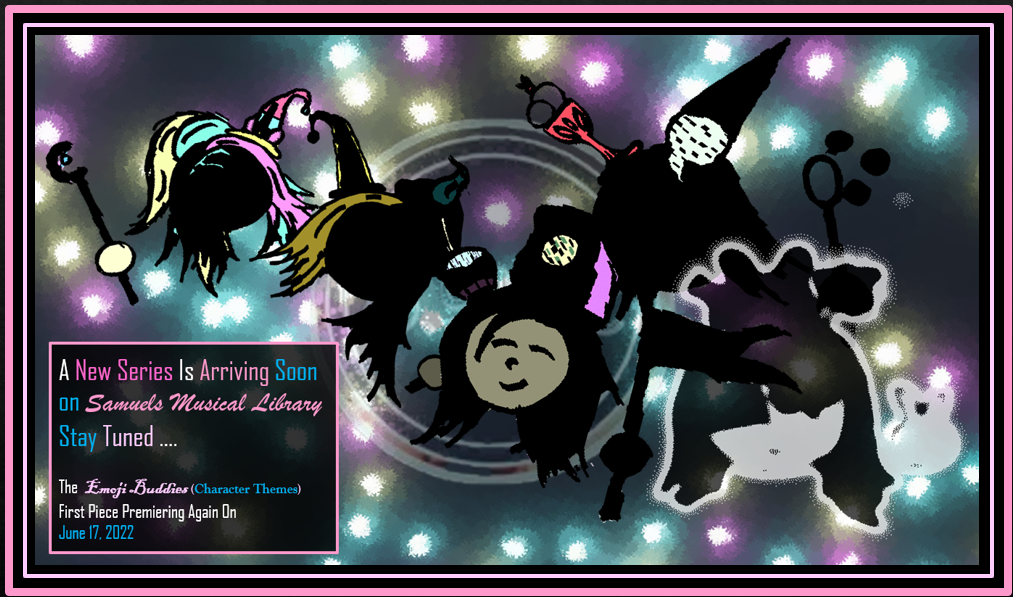
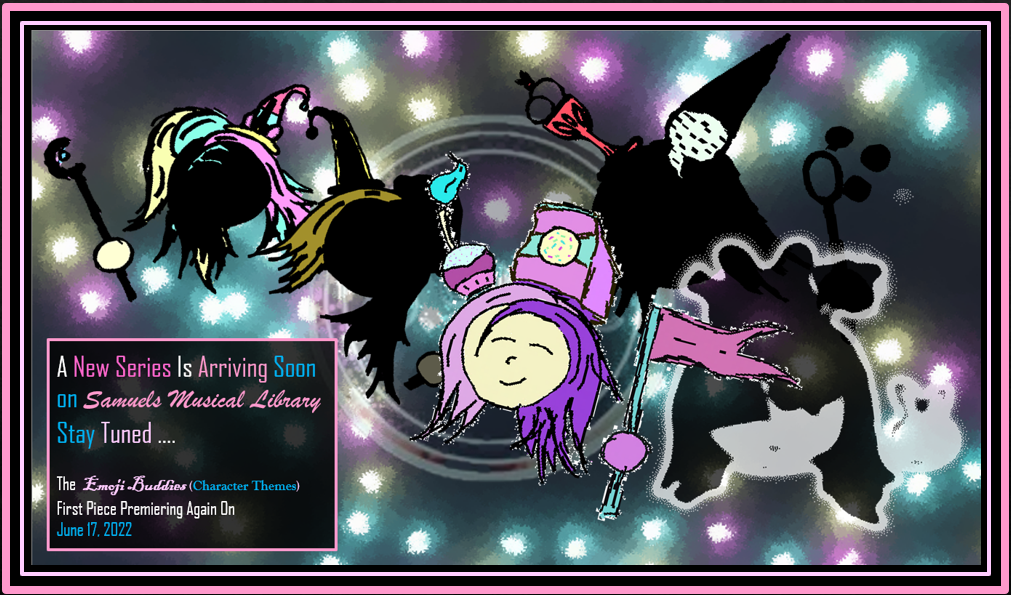
6/17/2022

Changed region(s): [[0.0, 0.0, 1.0, 0.9983], [0.8892, 0.3025, 0.9199, 0.3328]]

diff --git a/myportfolio.html b/myportfolio.html
@@ -29,12 +29,13 @@
 <a href="index.html">Home</a>
 <!--    
 <a href="aboutme.html">About Me</a>
--->
+
 <a href="songstatus.html">Music Status Checker</a>    
-<!--
+
 <a href="blog.html">Blog</a>
+
+<a href="gallery.html">Gallery</a>
 -->    
-<a href="gallery.html">Gallery</a>      
 <a href="contact.html">Contact</a>
 </div>
     
@@ -48,13 +49,13 @@
 <h1> Recently Posted </h1>
 
 <br>
-
+<td><iframe width="560" height="315" src="https://www.youtube.com/embed/Y8dr-vbFFhA" title="YouTube video player" frameborder="0" allow="accelerometer; autoplay; clipboard-write; encrypted-media; gyroscope; picture-in-picture" allowfullscreen></iframe></td>
+    
 <td><iframe width="560" height="315" src="https://www.youtube.com/embed/Oas1QBpsra8" title="YouTube video player" frameborder="0" allow="accelerometer; autoplay; clipboard-write; encrypted-media; gyroscope; picture-in-picture" allowfullscreen></iframe></td>
     
 <td><iframe width="560" height="315" src="https://www.youtube.com/embed/uYHl07tpf7c" title="YouTube video player" frameborder="0" allow="accelerometer; autoplay; clipboard-write; encrypted-media; gyroscope; picture-in-picture" allowfullscreen></iframe></td>
     
-<td><iframe width="560" height="315" src="https://www.youtube.com/embed/Y8dr-vbFFhA" title="YouTube video player" frameborder="0" allow="accelerometer; autoplay; clipboard-write; encrypted-media; gyroscope; picture-in-picture" allowfullscreen></iframe></td>
-    
+
 <td><iframe width="560" height="315" src="https://www.youtube.com/embed/FzN_bkL2irk" title="YouTube video player" frameborder="0" allow="accelerometer; autoplay; clipboard-write; encrypted-media; gyroscope; picture-in-picture" allowfullscreen></iframe> </td>
 
 
@@ -68,13 +69,12 @@
 <br>
     
 <h1> Out Of The Box Compositions </h1>
- 
+    
+<td><iframe width="560" height="315" src="https://www.youtube.com/embed/3qgNWOm7UNc" title="YouTube video player" frameborder="0" allow="accelerometer; autoplay; clipboard-write; encrypted-media; gyroscope; picture-in-picture" allowfullscreen></iframe> </td>    
     
 <td><iframe width="560" height="315" src="https://www.youtube.com/embed/q6mWY_TamQ4" title="YouTube video player" frameborder="0" allow="accelerometer; autoplay; clipboard-write; encrypted-media; gyroscope; picture-in-picture" allowfullscreen></iframe></td>
     
-<td><iframe width="560" height="315" src="https://www.youtube.com/embed/GRVQiNR0Y9c" title="YouTube video player" frameborder="0" allow="accelerometer; autoplay; clipboard-write; encrypted-media; gyroscope; picture-in-picture" allowfullscreen></iframe> </td>    
-
-<td><iframe width="560" height="315" src="https://www.youtube.com/embed/3qgNWOm7UNc" title="YouTube video player" frameborder="0" allow="accelerometer; autoplay; clipboard-write; encrypted-media; gyroscope; picture-in-picture" allowfullscreen></iframe> </td>    
+<td><iframe width="560" height="315" src="https://www.youtube.com/embed/GRVQiNR0Y9c" title="YouTube video player" frameborder="0" allow="accelerometer; autoplay; clipboard-write; encrypted-media; gyroscope; picture-in-picture" allowfullscreen></iframe> </td>     
 
 <td><iframe width="560" height="315" src="https://www.youtube.com/embed/glJ5Iyeob0M" title="YouTube video player" frameborder="0" allow="accelerometer; autoplay; clipboard-write; encrypted-media; gyroscope; picture-in-picture" allowfullscreen></iframe> </td>
     

diff --git a/contact.html b/contact.html
@@ -48,19 +48,22 @@
 <a href="aboutme.html">About Me</a>
 -->
 <a href="myportfolio.html">Piano Covers/Compositions</a>
-<a href="songstatus.html">Music Status Checker</a>      
+
 <!--
+<a href="songstatus.html">Music Status Checker</a>      
+
 <a href="blog.html">Blog</a>    
--->
+
     
-<a href="gallery.html">Gallery</a>      
+<a href="gallery.html">Gallery</a> 
+-->
 
 
 </div>
 <br>
 <br>    
     
-<img src="contacts.png" alt="Contact image" class="contactcenter"> 
+<img src="c.png" alt="Contact image" class="contactcenter"> 
 
     
 

diff --git a/index.html b/index.html
@@ -24,11 +24,14 @@
 <a href="aboutme.html">About Me</a>
 -->
 <a href="myportfolio.html">Piano Covers/Compositions</a>
+    
+<!--=
 <a href="songstatus.html">Music Status Checker</a>      
-<!--
+
 <a href="blog.html">Blog</a>
+
+<a href="gallery.html">Gallery</a> 
 -->
-<a href="gallery.html">Gallery</a>      
 
 <a href="contact.html">Contact</a>
 </div>

diff --git a/style.css b/style.css
@@ -42,7 +42,7 @@ body.contact-color{background-color:black;}
   display: block;
   margin-left: auto;
   margin-right: auto;
-  width: 30%;
+  width: 50%;
 }
 
 

diff --git a/README.md b/README.md
@@ -15,15 +15,15 @@ Current Available Pages:
 ------------------------------------------------------------------------------------------------------------------------------------------------------------------------------
 Index Page/ Home: (https://scmcoding.github.io/S.M.L-Official-Website/)
 
-About Me/ Bio: (https://scmcoding.github.io/S.M.L-Official-Website/aboutme.html) ( Taking Off site for editing purposes )
+About Me/ Bio: (https://scmcoding.github.io/S.M.L-Official-Website/aboutme.html) ( Taking Off site for editing purposes/ Disabled )
 
-My Portfolio/ Musical pieces and composition: (https://scmcoding.github.io/S.M.L-Official-Website/myportfolio.html)
+My Portfolio/ Musical pieces and composition: (https://scmcoding.github.io/S.M.L-Official-Website/myportfolio.html) 
 
 Blog Page: https://scmcoding.github.io/S.M.L-Official-Website/blog.html (No Longer In Use)
 
-Gallery Page: https://scmcoding.github.io/S.M.L-Official-Website/gallery.html
+Gallery Page: https://scmcoding.github.io/S.M.L-Official-Website/gallery.html (Pending/Currently Disabled)
 
-Status Page: https://scmcoding.github.io/S.M.L-Official-Website/songstatus.html
+Status Page: https://scmcoding.github.io/S.M.L-Official-Website/songstatus.html (pending/Currently Disabled)
 
 Contacts: (https://scmcoding.github.io/S.M.L-Official-Website/contact.html)
 
@@ -57,6 +57,8 @@ Update Log:
 12/22/2021 Website v07 Gallery page is back. (Currently only works on the computer version of the website.)
 
 2/19/2022 Website v07 Updated repository to a newer version
+
+6/17/2022 Updated profile pictures for both the index and contact pages. The Gallery page will be taken down for further updates along with the Music Status Page.
 
 
 Current bugs/Curently Fixing:
